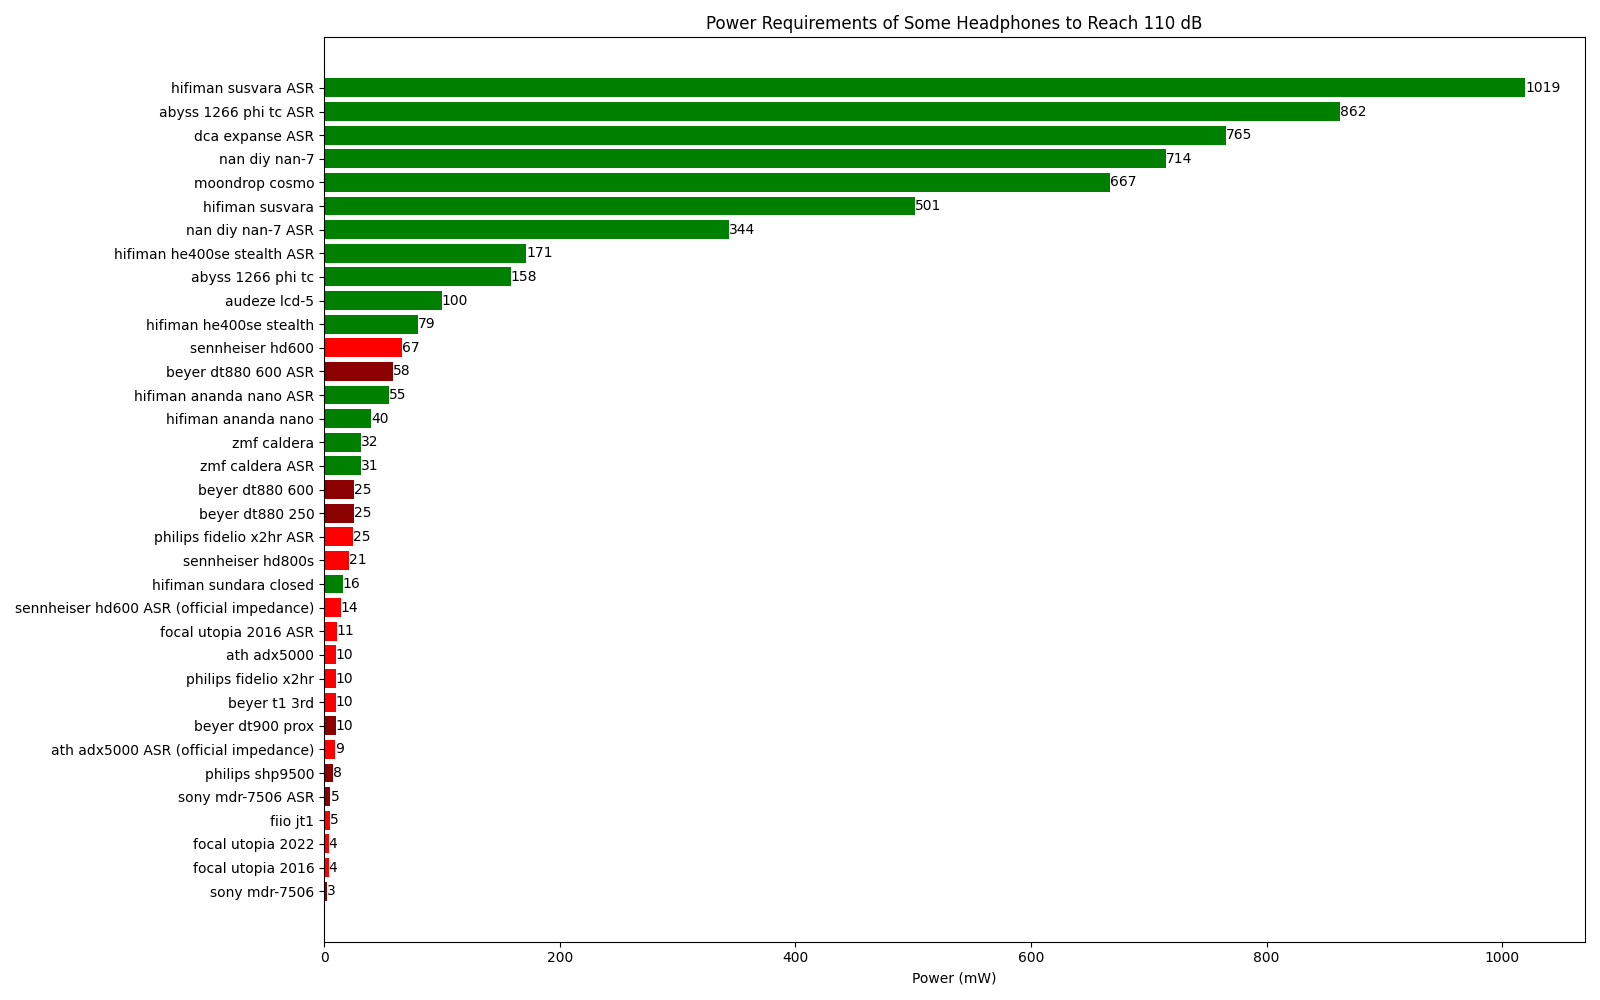
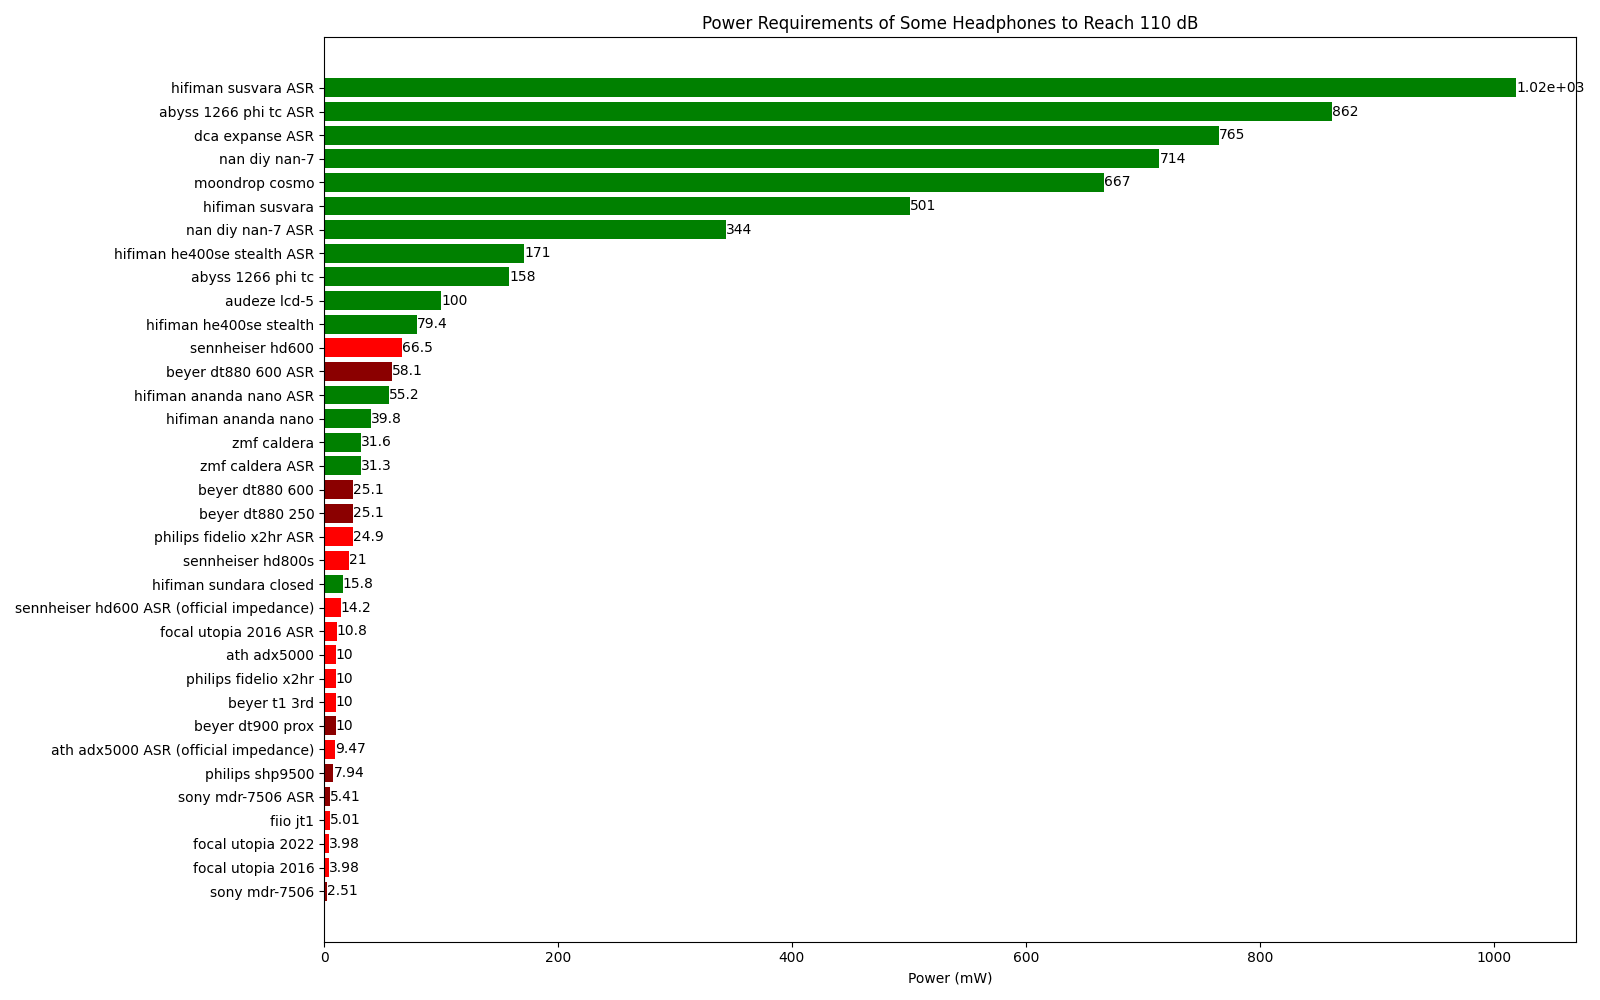
update current

diff --git a/analysis tools/over-ear sensitivity analysis.py b/analysis tools/over-ear sensitivity analysis.py
@@ -16,10 +16,8 @@ class Headphone:
         balance=None,
         back=None,
         production=None,
-        official_note=None,
         asr_94db_voltage=math.nan,
         asr_impedance=math.nan,
-        asr_note=None,
     ):
         self.brand = brand
         self.model = model
@@ -30,10 +28,8 @@ class Headphone:
         self.balance = balance
         self.back = back
         self.production = production
-        self.official_note = official_note
         self.asr_94db_voltage = asr_94db_voltage
         self.asr_impedance = asr_impedance
-        self.asr_note = asr_note
 
     def print_info(self):
         for attr, value in self.__dict__.items():
@@ -45,18 +41,14 @@ class Headphone:
         elif not math.isnan(self.official_db_mw) and not math.isnan(
             self.official_impedance
         ):
-            return (
-                10
-                ** (
-                    (
-                        target_db
-                        - self.official_db_mw
-                        - 30
-                        + 10 * math.log10(self.official_impedance)
-                    )
-                    / 20
+            return 10 ** (
+                (
+                    target_db
+                    - self.official_db_mw
+                    + 30
+                    + 10 * math.log10(self.official_impedance)
                 )
-                * 1000
+                / 20
             )
 
     def voltage_needed_asr(self, target_db=110):
@@ -100,6 +92,59 @@ class Headphone:
                 * self.asr_94db_voltage**2
                 / self.official_impedance
                 / 1000
+            )
+
+    def current_needed_official(self, target_db=110):
+        # db/vrms is prefered for no compelling reason. It's just a choice.
+        if not math.isnan(self.official_db_vrms) and not math.isnan(
+            self.official_impedance
+        ):
+            return (
+                10 ** ((target_db - self.official_db_vrms) / 20)
+                / self.official_impedance
+                * 1000
+            )
+        elif not math.isnan(self.official_db_mw) and not math.isnan(
+            self.official_impedance
+        ):
+            return (
+                10
+                ** (
+                    (
+                        target_db
+                        - self.official_db_mw
+                        + 30
+                        + 10 * math.log10(self.official_impedance)
+                    )
+                    / 20
+                )
+                / self.official_impedance
+            )
+        elif not math.isnan(self.official_db_vrms) and not math.isnan(
+            self.official_db_mw
+        ):
+            return (
+                10
+                ** ((target_db + self.official_db_vrms - 2 * self.official_db_mw) / 20)
+                / 1000
+            )
+
+    def current_needed_asr(self, target_db=110):
+        if not math.isnan(self.asr_94db_voltage) and not math.isnan(self.asr_impedance):
+            return (
+                10 ** ((target_db - 94) / 20)
+                * self.asr_94db_voltage
+                / self.asr_impedance
+            )
+
+    def current_needed_asr_voltage_official_impedance(self, target_db=110):
+        if not math.isnan(self.asr_94db_voltage) and not math.isnan(
+            self.official_impedance
+        ):
+            return (
+                10 ** ((target_db - 94) / 20)
+                * self.asr_94db_voltage
+                / self.official_impedance
             )
 
 
@@ -153,7 +198,10 @@ def plot(
     for bar in bars:
         width = bar.get_width()
         plt.text(
-            width, bar.get_y() + bar.get_height() / 2, f"{round(width)}", va="center"
+            width,
+            bar.get_y() + bar.get_height() / 2,
+            "%.3g" % width,
+            va="center",
         )
     plt.xlabel(xlabel)
     plt.title(title)
@@ -231,6 +279,45 @@ def power_needed(headphones, target_db):
     return power_data
 
 
+def current_needed(headphones, target_db):
+    current_data = []
+    for headphone in headphones:
+        current_needed = headphone.current_needed_official(target_db=target_db)
+        if current_needed:
+            current_data.append(
+                (
+                    f"{headphone.brand} {headphone.model}",
+                    current_needed,
+                    headphone.driver,
+                    headphone.balance,
+                )
+            )
+        current_needed = headphone.current_needed_asr(target_db=target_db)
+        if current_needed:
+            current_data.append(
+                (
+                    f"{headphone.brand} {headphone.model} ASR",
+                    current_needed,
+                    headphone.driver,
+                    headphone.balance,
+                )
+            )
+        else:
+            current_needed = headphone.current_needed_asr_voltage_official_impedance(
+                target_db
+            )
+            if current_needed:
+                current_data.append(
+                    (
+                        f"{headphone.brand} {headphone.model} ASR (official impedance)",
+                        current_needed,
+                        headphone.driver,
+                        headphone.balance,
+                    )
+                )
+    return current_data
+
+
 official = pd.read_csv(
     "./data/over-ear sensitivity official.csv",
     dtype={
@@ -273,7 +360,6 @@ for index, data in official.iterrows():
             data["balance"],
             data["back"],
             data["production"],
-            data["note"],
         )
     )
 for index, data in asr.iterrows():
@@ -282,7 +368,6 @@ for index, data in asr.iterrows():
         if headphone.brand == data["brand"] and headphone.model == data["model"]:
             headphone.asr_94db_voltage = data["94db voltage"]
             headphone.asr_impedance = data["impedance"]
-            headphone.asr_note = data["note"]
             found = True
             break
     if not found:
@@ -320,6 +405,21 @@ plot(
     max_shown=30,
     title="Power Requirements of the Hardest-to-Drive Producing or Inventory Planar Headphones to Reach 110 dB",
     xlabel="Power (mW)",
+    save_path="./analysis results/",
+)
+
+plot(
+    current_needed(
+        [
+            headphone
+            for headphone in headphones
+            if headphone.production in ["producing", "inventory"]
+        ],
+        110,
+    ),
+    max_shown=30,
+    title="Current Requirements of the Hardest-to-Drive Producing or Inventory Headphones to Reach 110 dB",
+    xlabel="Current (mA)",
     save_path="./analysis results/",
 )
 
@@ -363,5 +463,12 @@ plot(
     power_needed(reference_headphones, 110),
     title="Power Requirements of Some Headphones to Reach 110 dB",
     xlabel="Power (mW)",
+    save_path="./analysis results/",
+)
+
+plot(
+    current_needed(reference_headphones, 110),
+    title="Current Requirements of Some Headphones to Reach 110 dB",
+    xlabel="Current (mA)",
     save_path="./analysis results/",
 )

diff --git a/README.md b/README.md
@@ -52,11 +52,9 @@ Used to analyze and compare the voltage and power requirements of headphones, it
 
 ![Voltage Requirements of the Hardest-to-Drive Producing or Inventory Headphones to Reach 110 dB](./analysis%20results/Voltage%20Requirements%20of%20the%20Hardest-to-Drive%20Producing%20or%20Inventory%20Headphones%20to%20Reach%20110%20dB.png)
 
-![Power Requirements of the Hardest-to-Drive Producing or Inventory Planar Headphones to Reach 110 dB](./analysis%20results/Power%20Requirements%20of%20the%20Hardest-to-Drive%20Producing%20or%20Inventory%20Planar%20Headphones%20to%20Reach%20110%20dB.png)
-
-![Voltage Requirements of Some Headphones to Reach 110 dB](./analysis%20results/Voltage%20Requirements%20of%20Some%20Headphones%20to%20Reach%20110%20dB.png)
-
 ![Power Requirements of Some Headphones to Reach 110 dB](./analysis%20results/Power%20Requirements%20of%20Some%20Headphones%20to%20Reach%20110%20dB.png)
+
+![Current Requirements of the Hardest-to-Drive Producing or Inventory Headphones to Reach 110 dB](./analysis%20results/Current%20Requirements%20of%20the%20Hardest-to-Drive%20Producing%20or%20Inventory%20Headphones%20to%20Reach%20110%20dB.png)
 
 For specific usage, please refer to the comments and the usage examples in the script.
 

diff --git a/README zh-CN.md b/README zh-CN.md
@@ -50,11 +50,9 @@ Audio Science Review（ASR）头戴式耳机灵敏度表。[Audio Science Review
 
 ![Voltage Requirements of the Hardest-to-Drive Producing or Inventory Headphones to Reach 110 dB](./analysis%20results/Voltage%20Requirements%20of%20the%20Hardest-to-Drive%20Producing%20or%20Inventory%20Headphones%20to%20Reach%20110%20dB.png)
 
-![Power Requirements of the Hardest-to-Drive Producing or Inventory Planar Headphones to Reach 110 dB](./analysis%20results/Power%20Requirements%20of%20the%20Hardest-to-Drive%20Producing%20or%20Inventory%20Planar%20Headphones%20to%20Reach%20110%20dB.png)
-
-![Voltage Requirements of Some Headphones to Reach 110 dB](./analysis%20results/Voltage%20Requirements%20of%20Some%20Headphones%20to%20Reach%20110%20dB.png)
-
 ![Power Requirements of Some Headphones to Reach 110 dB](./analysis%20results/Power%20Requirements%20of%20Some%20Headphones%20to%20Reach%20110%20dB.png)
+
+![Current Requirements of the Hardest-to-Drive Producing or Inventory Headphones to Reach 110 dB](./analysis%20results/Current%20Requirements%20of%20the%20Hardest-to-Drive%20Producing%20or%20Inventory%20Headphones%20to%20Reach%20110%20dB.png)
 
 具体使用方法请参考该脚本内的注释和使用实例
 
